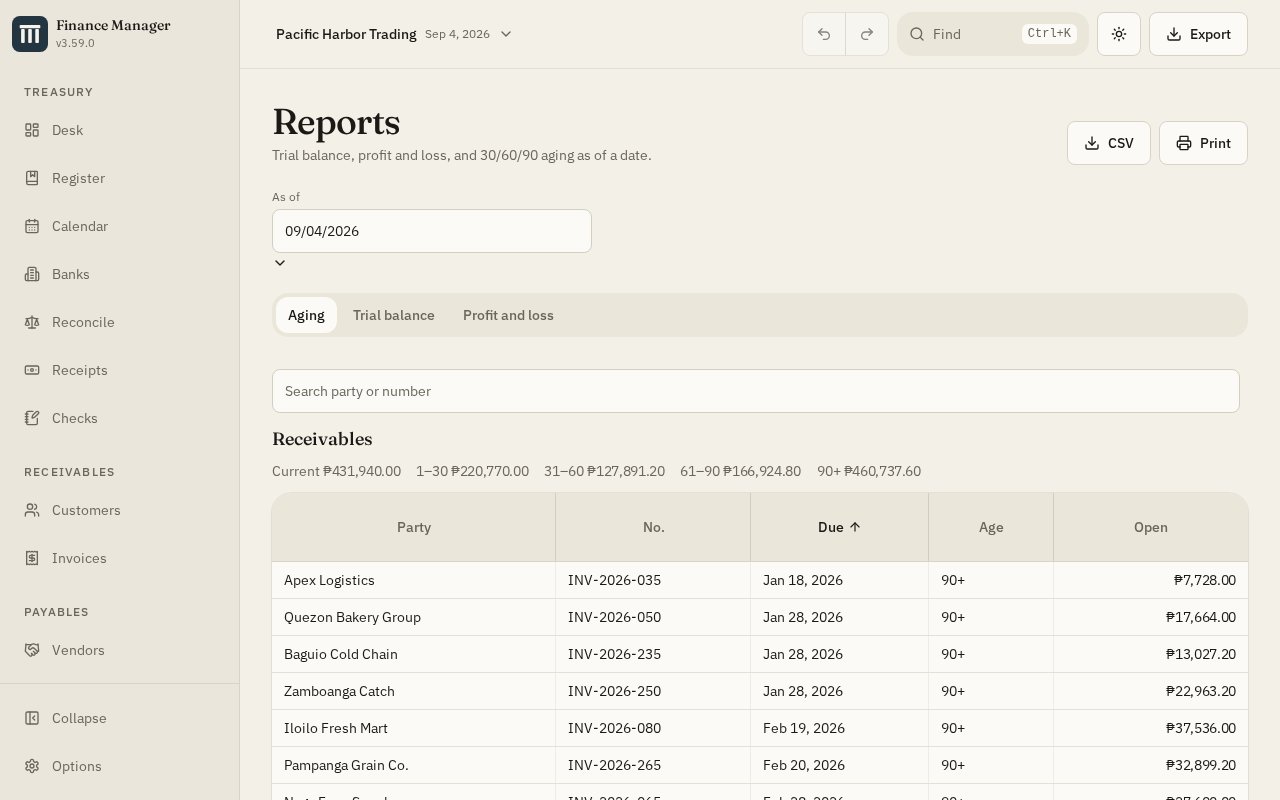
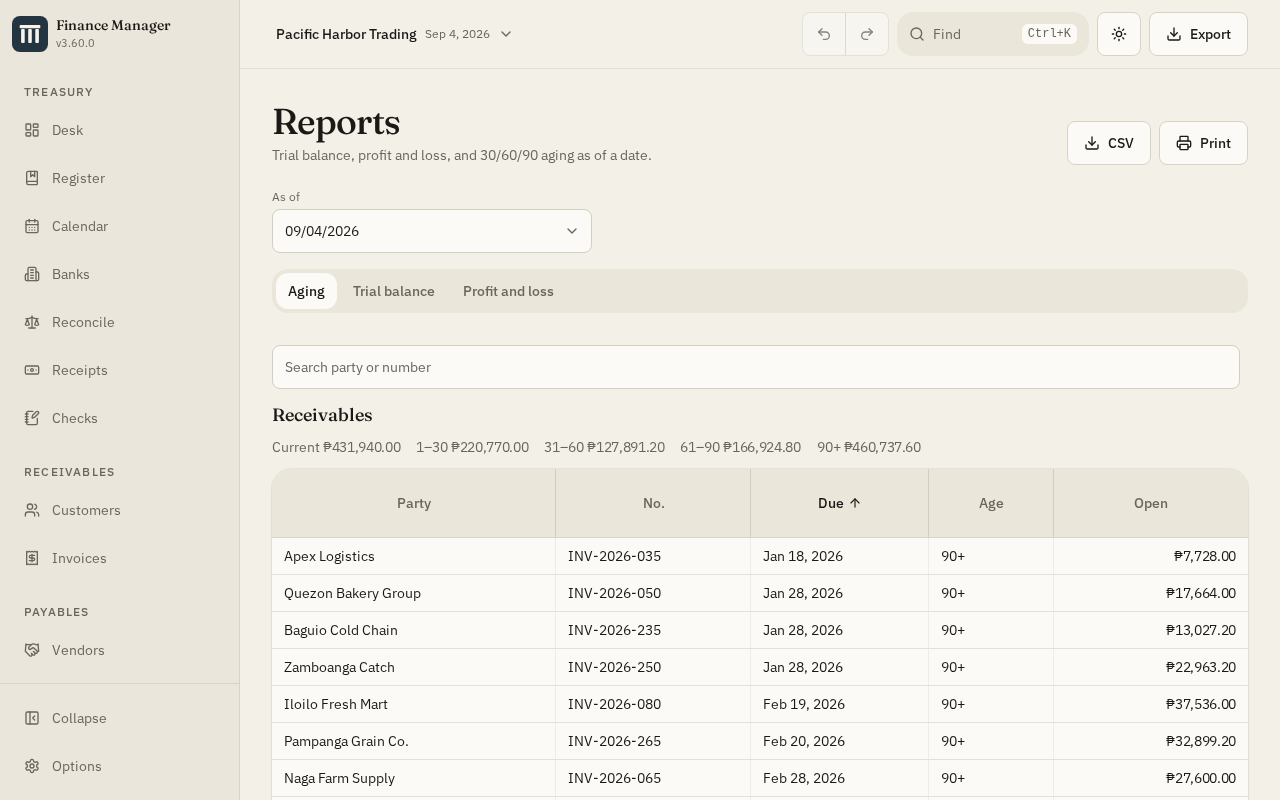
v3.60: fix DateInput calendar chevron; refresh screenshots

diff --git a/src/styles.css b/src/styles.css
@@ -2771,3 +2771,76 @@ body.printing [data-radix-popper-content-wrapper]:has(.print-paper-menu) {
 [data-radix-popper-content-wrapper] {
   z-index: 200 !important;
 }
+
+
+/* DateInput calendar popover (portaled) */
+.date-cal-pop {
+  position: fixed;
+  z-index: 250;
+  border-radius: 0.75rem;
+  border: 1px solid hsl(var(--border));
+  background: hsl(var(--popover));
+  color: hsl(var(--popover-foreground));
+  box-shadow: 0 12px 40px rgba(0, 0, 0, 0.18);
+  padding: 0.75rem;
+}
+.date-cal-head {
+  display: flex;
+  align-items: center;
+  justify-content: space-between;
+  gap: 0.5rem;
+  margin-bottom: 0.5rem;
+  font-weight: 600;
+}
+.date-cal-head button {
+  display: inline-flex;
+  align-items: center;
+  justify-content: center;
+  width: 2rem;
+  height: 2rem;
+  border-radius: 0.5rem;
+}
+.date-cal-head button:hover {
+  background: hsl(var(--muted));
+}
+.date-cal-week,
+.date-cal-grid {
+  display: grid;
+  grid-template-columns: repeat(7, 1fr);
+  gap: 0.15rem;
+  text-align: center;
+}
+.date-cal-week {
+  margin-bottom: 0.25rem;
+  font-size: 0.7rem;
+  color: hsl(var(--muted-foreground));
+}
+.date-cal-grid button {
+  aspect-ratio: 1;
+  border-radius: 0.5rem;
+  font-size: 0.85rem;
+}
+.date-cal-grid button:hover {
+  background: hsl(var(--muted));
+}
+.date-cal-grid button[data-outside="true"] {
+  opacity: 0.35;
+}
+.date-cal-grid button[data-today="true"] {
+  box-shadow: inset 0 0 0 1px hsl(var(--border));
+}
+.date-cal-grid button[data-selected="true"] {
+  background: hsl(var(--primary));
+  color: hsl(var(--primary-foreground));
+}
+.date-cal-today {
+  margin-top: 0.5rem;
+  width: 100%;
+  border-radius: 0.5rem;
+  padding: 0.4rem;
+  font-size: 0.85rem;
+  background: hsl(var(--muted));
+}
+.date-cal-today:hover {
+  filter: brightness(0.97);
+}

diff --git a/src/components/date-input.tsx b/src/components/date-input.tsx
@@ -136,7 +136,7 @@ export function DateInput({
   }, [open]);
 
   return (
-    <div ref={wrapRef} className="date-input">
+    <div ref={wrapRef} className="date-input relative w-full">
       <Input
         ref={inputRef}
         id={id}
@@ -196,7 +196,7 @@ export function DateInput({
       />
       <button
         type="button"
-        className="date-input-cal"
+        className="date-input-cal absolute inset-y-0 right-0 z-10 flex w-10 items-center justify-center text-muted-foreground hover:text-foreground disabled:pointer-events-none disabled:opacity-50"
         tabIndex={-1}
         disabled={disabled}
         aria-label="Open calendar"
@@ -206,7 +206,7 @@ export function DateInput({
           setOpen((v) => !v);
         }}
       >
-        <ChevronDown className="size-4" />
+        <ChevronDown className="size-4 shrink-0" />
       </button>
       {open && !disabled
         ? createPortal(

diff --git a/src/lib/version.ts b/src/lib/version.ts
@@ -1,2 +1,2 @@
-export const APP_VERSION = "3.59.0";
+export const APP_VERSION = "3.60.0";
 export const APP_VERSION_LABEL = `v${APP_VERSION}`;

diff --git a/README.md b/README.md
@@ -1,4 +1,4 @@
-# Finance Manager v3.59
+# Finance Manager v3.60
 
 Treasury books in a **desktop window**, and in the browser. Banks, receipts, checks, invoices, bills, **employees**, and a **bank register**.
 
@@ -12,7 +12,12 @@ The app mark is a **navy tile with cream pillars** — a full opaque square (Win
 
 
 
-## What's new in v3.59
+## What's new in v3.60
+
+- Date fields: calendar chevron stays inside the input on the right (Reconcile, Reports, Close, Options, and every other DateInput) — relative wrapper + absolute icon; no orphaned marker below the field
+- Calendar popover styles for the shared DateInput picker
+
+## What’s new in v3.59
 
 - Undo/redo toasts name the action (e.g. Undid: delete invoice INV-1042); menu items show the same peek labels
 - Options → Currency and tax: country tax packs; **Also update home currency** switch; **No currency** blank option (amounts without a symbol)
@@ -72,6 +77,8 @@ Lists (banks, register, receipts, checks, reports, reconcile) wrap actions and k
 ![Reconcile — statement vs book proof](docs/screenshots/reconcile.png)
 
 ![Options — currency, country tax pack, Also update home currency](docs/screenshots/options-currency-tax.png)
+
+![Options — storage and purge date field](docs/screenshots/options.png)
 
 ![Labeled undo toast — Undid: update options](docs/screenshots/undo-toast.png)
 
